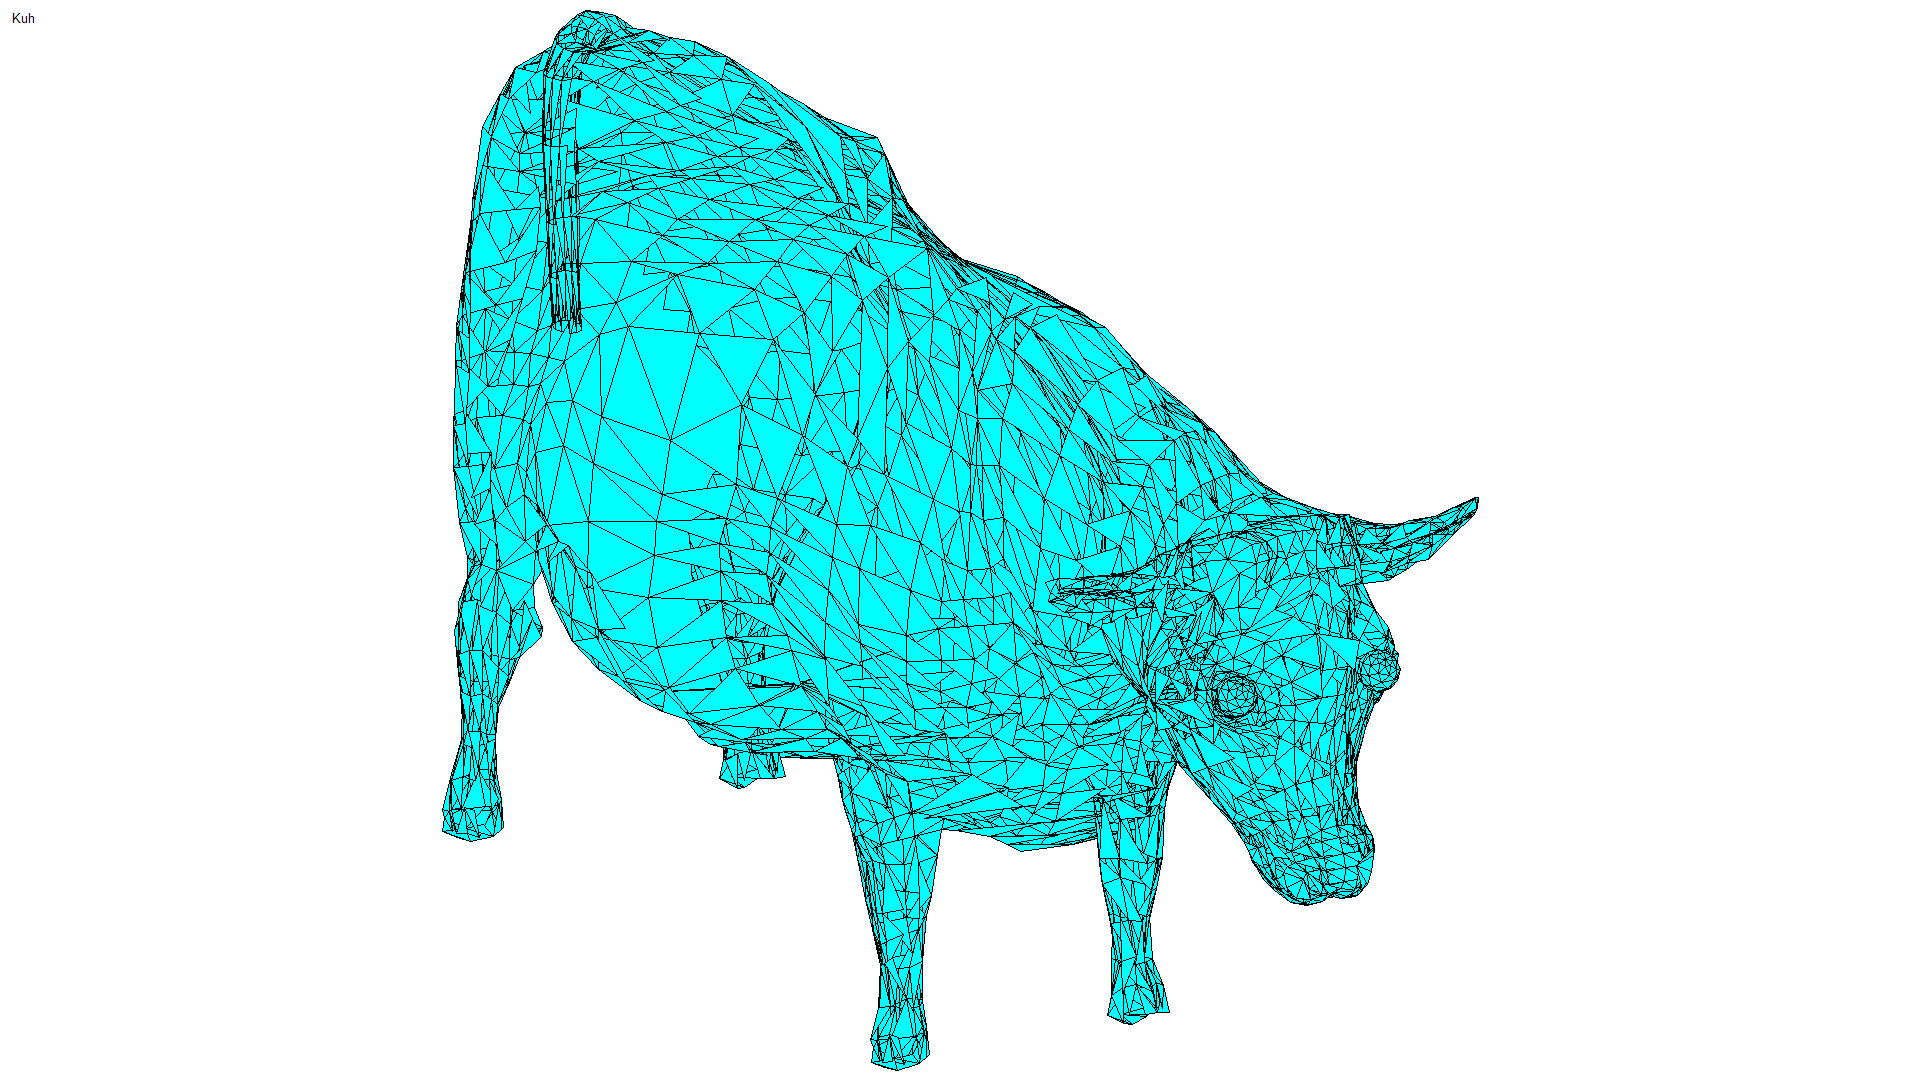
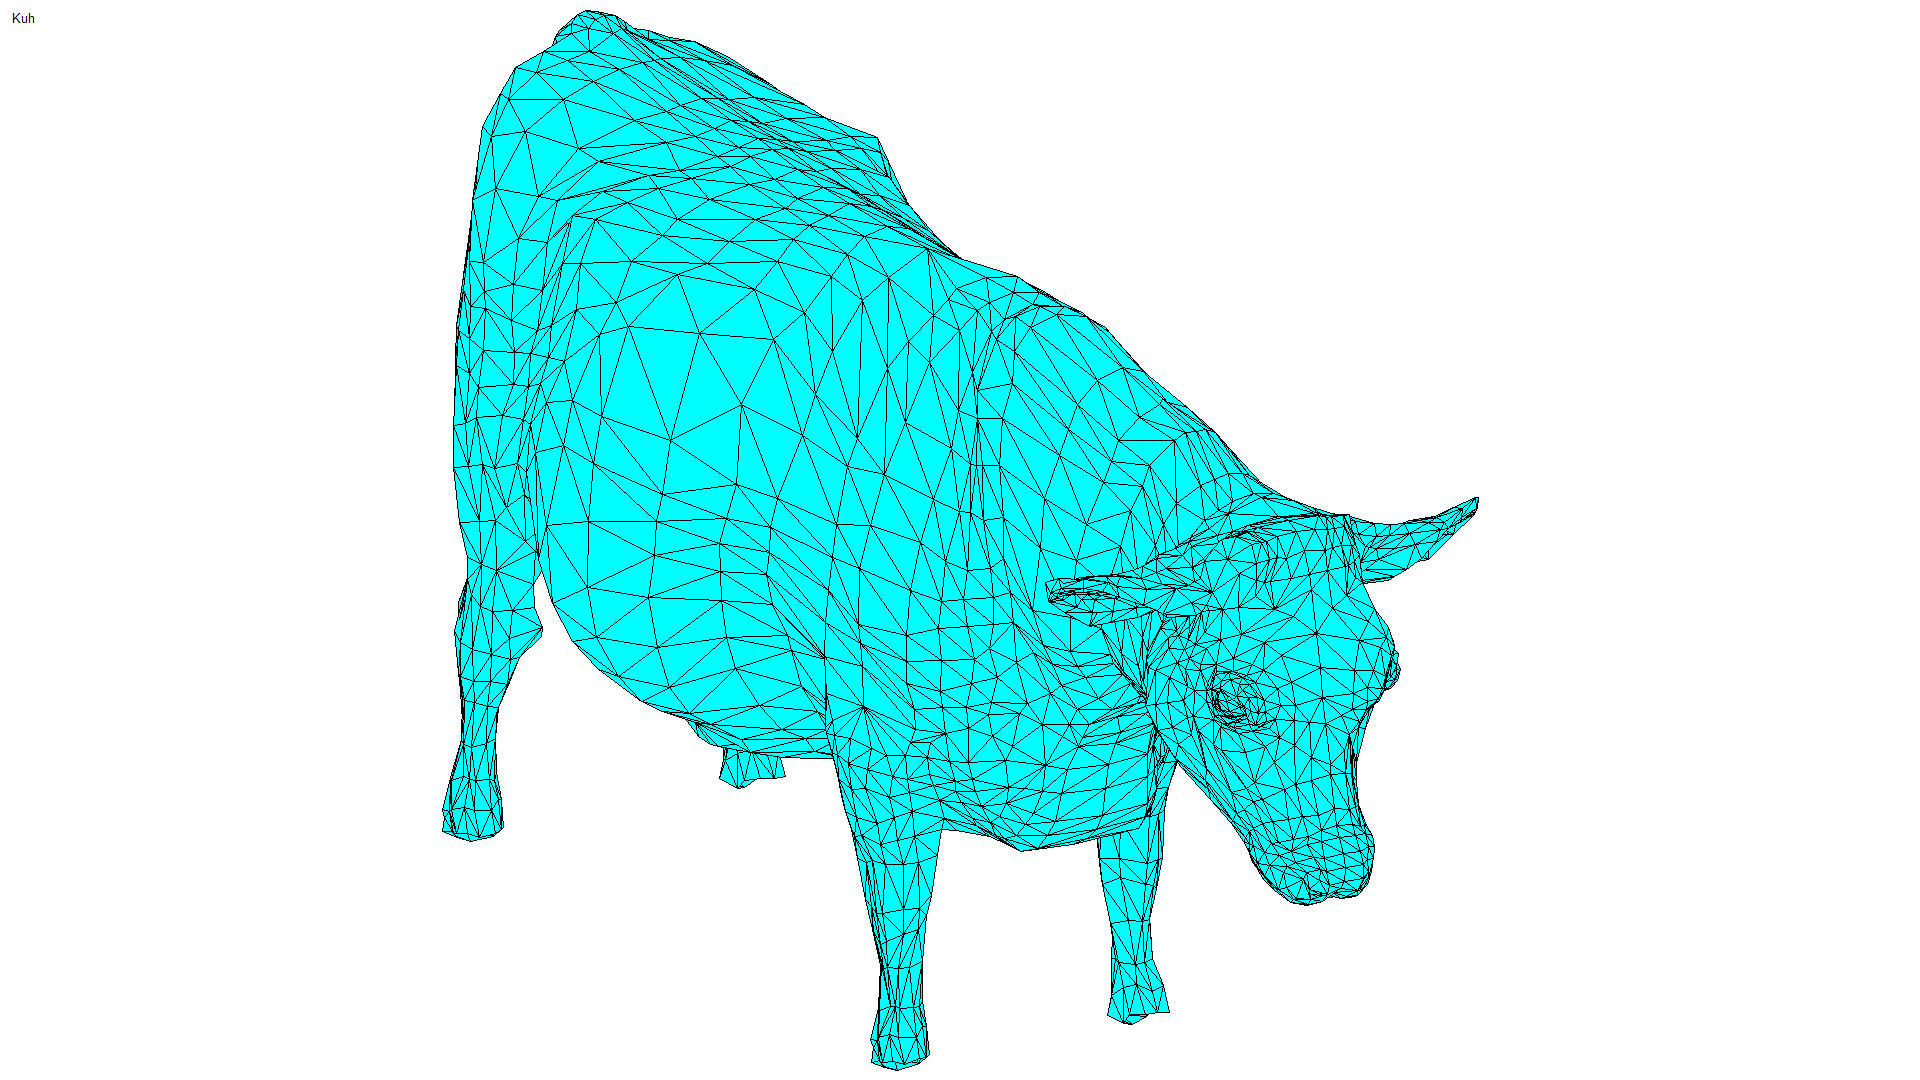
fix z-buffer by sorting the faces

diff --git a/FEViewUtil/Model.cs b/FEViewUtil/Model.cs
@@ -112,6 +112,81 @@ namespace FEViewUtil
             }
         }
 
+        //Handle z-Buffer painting order this way 
+        public void sortFaces()
+        {
+            _faces.Sort(new TriangleFaceSort(this));
+        }
+
+        private class TriangleFaceSort : IComparer<TriangleFace>
+        {
+            private Model _model;
+            public TriangleFaceSort(Model model)
+            {
+                _model = model;
+            }
+
+            public int Compare(TriangleFace faceA, TriangleFace faceB)
+            {
+                if (faceA == null)
+                {
+                    if (faceB == null)
+                    {
+                        // If x is null and y is null, they're 
+                        // equal.  
+                        return 0;
+                    }
+                    else
+                    {
+                        // If x is null and y is not null, y 
+                        // is greater.  
+                        return -1;
+                    }
+                }
+                else
+                {
+                    // If x is not null... 
+                    // 
+                    if (faceB == null)
+                    // ...and y is null, x is greater.
+                    {
+                        return 1;
+                    }
+                    else
+                    {
+                        //find min z coordinate to paint
+                        Point ap0 = faceA.getViewCoord(_model.getVertexArray(), 0);
+                        Point ap1 = faceA.getViewCoord(_model.getVertexArray(), 1);
+                        Point ap2 = faceA.getViewCoord(_model.getVertexArray(), 2);
+
+                        double amaxZ = ap0.z;
+                        if (ap1.z > amaxZ)
+                            amaxZ = ap1.z;
+                        if (ap2.z > amaxZ)
+                            amaxZ = ap2.z;
+
+                        Point bp0 = faceB.getViewCoord(_model.getVertexArray(), 0);
+                        Point bp1 = faceB.getViewCoord(_model.getVertexArray(), 1);
+                        Point bp2 = faceB.getViewCoord(_model.getVertexArray(), 2);
+
+                        double bmaxZ = bp0.z;
+                        if (bp1.z > bmaxZ)
+                            bmaxZ = bp1.z;
+                        if (bp2.z > bmaxZ)
+                            bmaxZ = bp2.z;
+
+                        if (amaxZ < bmaxZ)
+                            return -1;
+
+                        if (amaxZ == bmaxZ)
+                            return 0;
+                        return 1;
+                    }
+                }
+            }
+        }
+
+
         public void read(string file)
         {
             try

diff --git a/FEViewConsole/Program.cs b/FEViewConsole/Program.cs
@@ -65,6 +65,7 @@ namespace FEViewConsole
             }
 
             model.computeViewBox();
+            model.sortFaces();
         }
 
         static void points2Pixel(Model model, View view, int width, int height)

diff --git a/README.md b/README.md
@@ -9,9 +9,6 @@ This project does not use OpenGL.
 FEViewConsole input.FEM output.png
 ```
 
-##Limitation:
-Since there is not z buffer currently, the output does not look correct due to false depth painting order, in which further away z content can be painted above closer geometry.
-
 ##Example: Beetle
 
 [Input](https://raw.githubusercontent.com/sleutho/FEView/master/FEViewExample/VW_Kaefer.FEM) -> [Output](https://raw.githubusercontent.com/sleutho/FEView/master/FEViewExample/VW_Kaefer.png)
